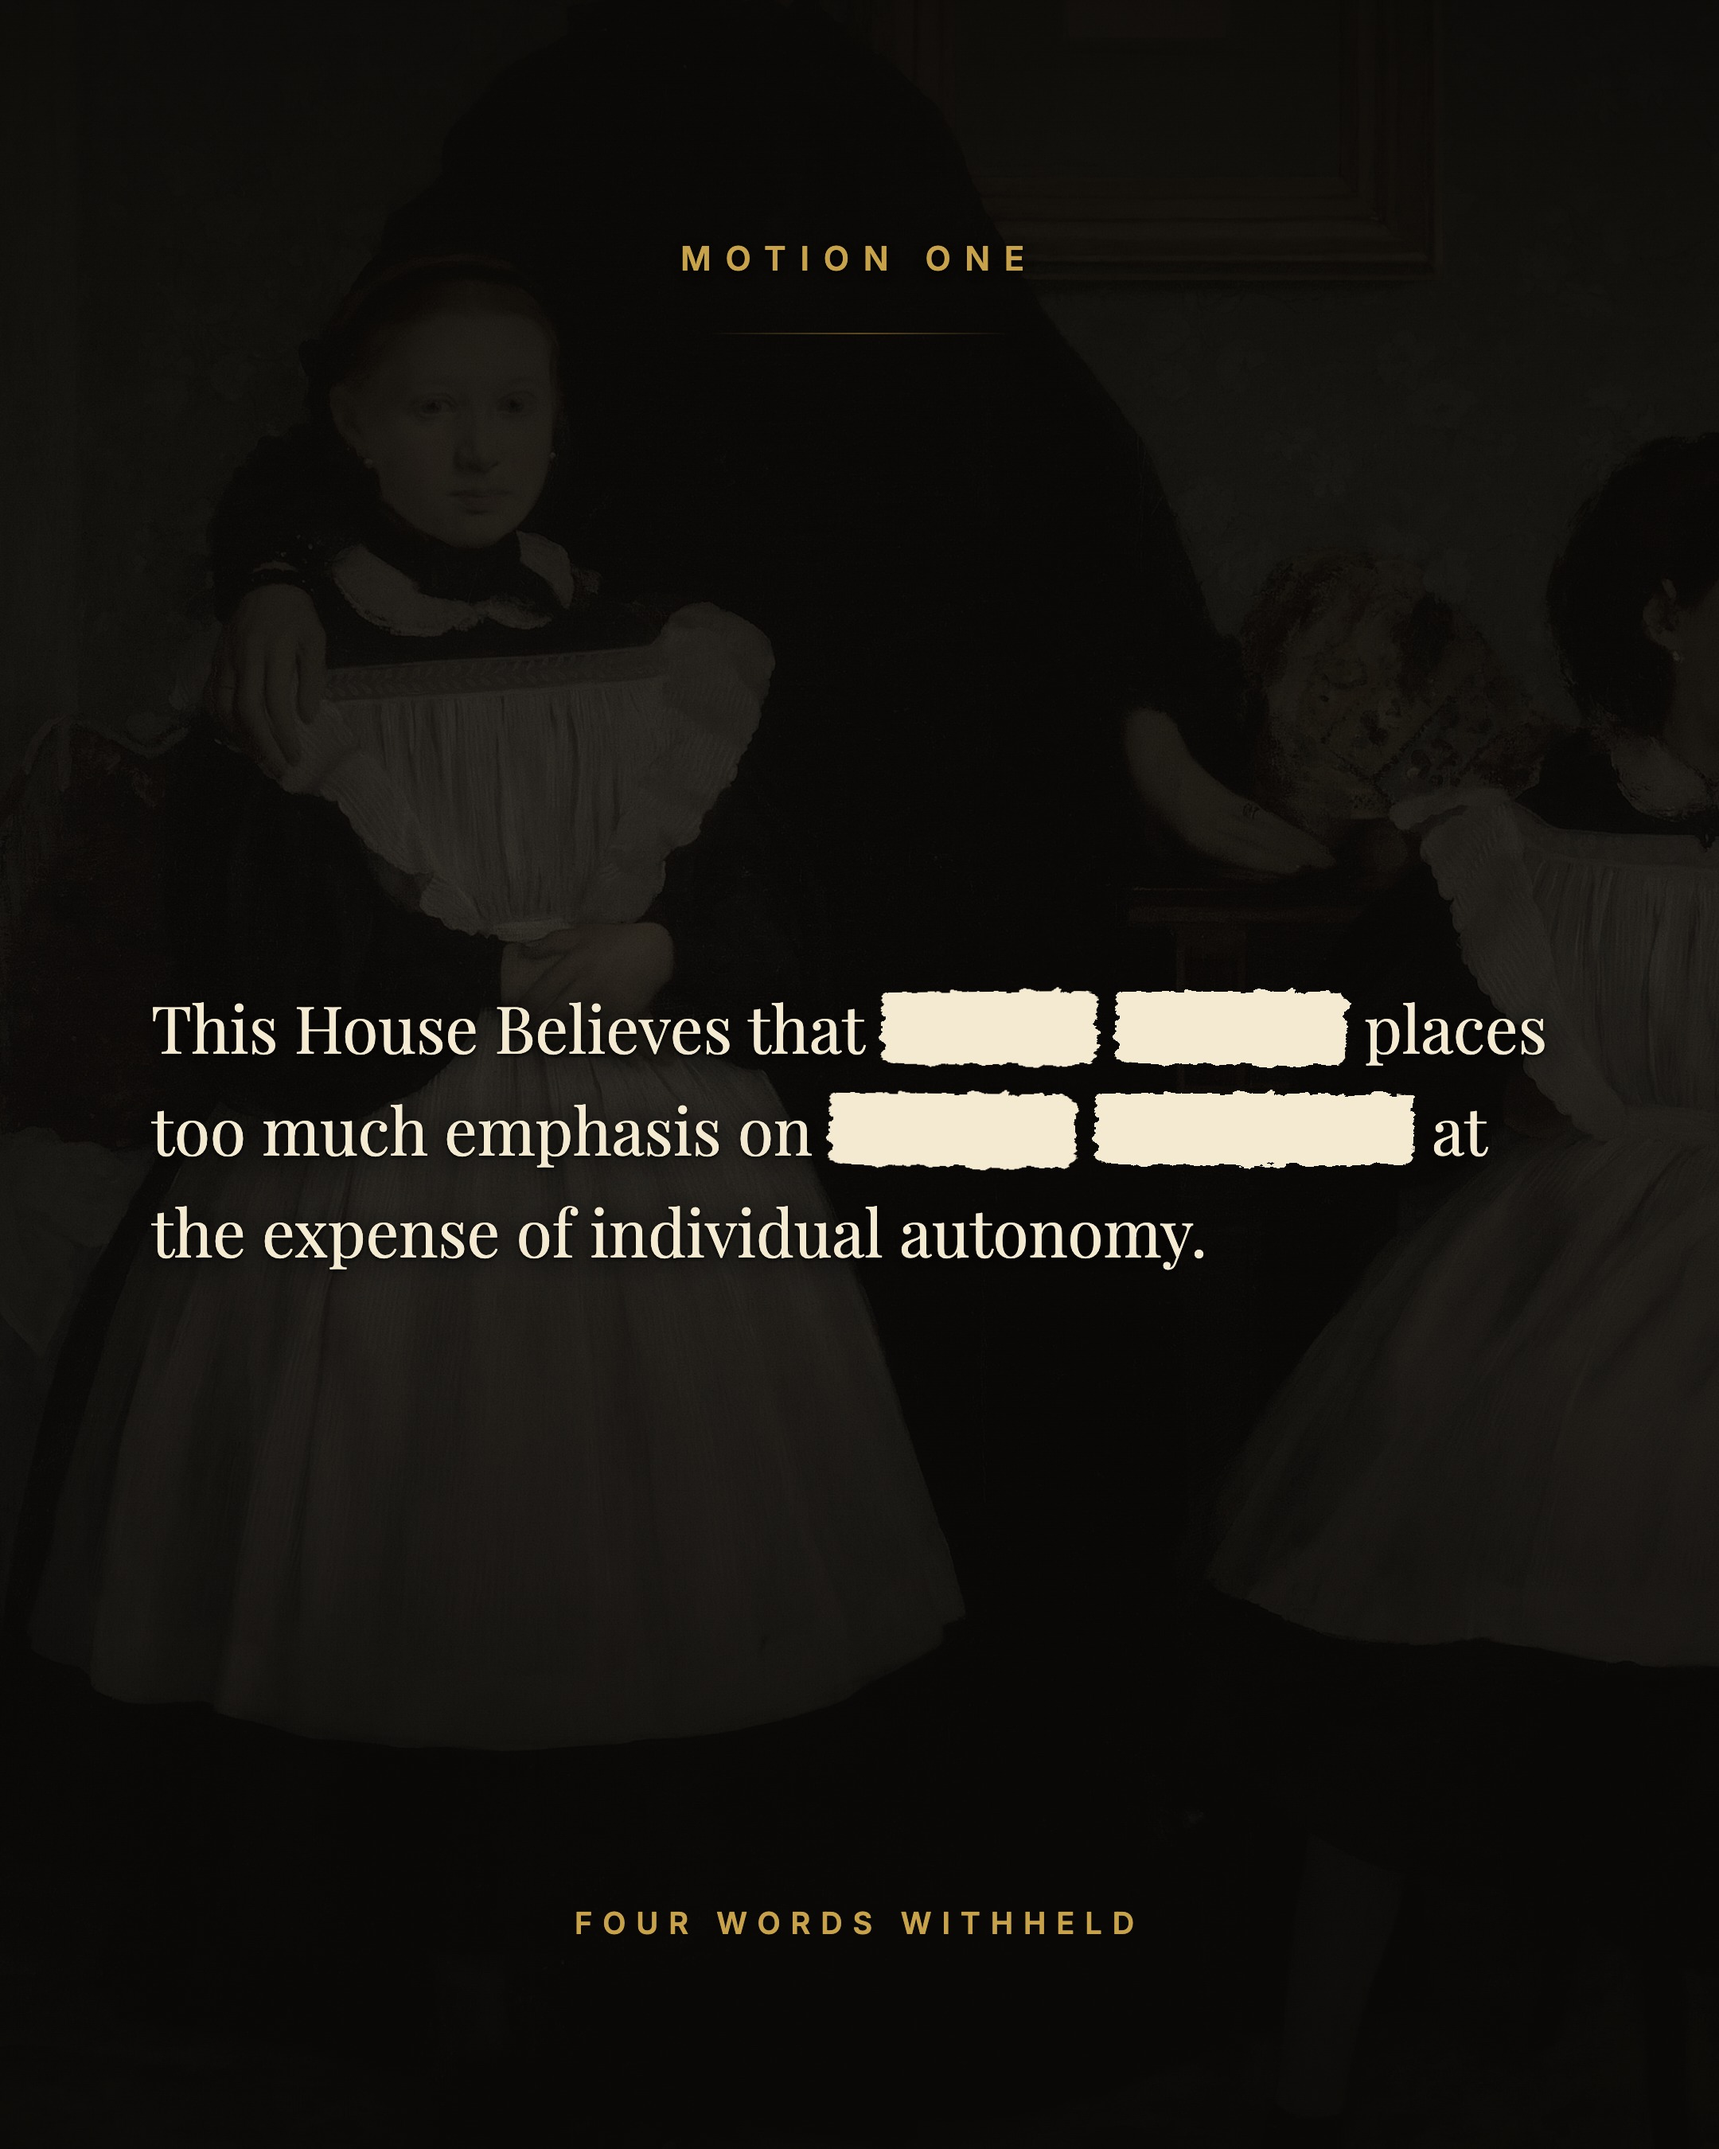
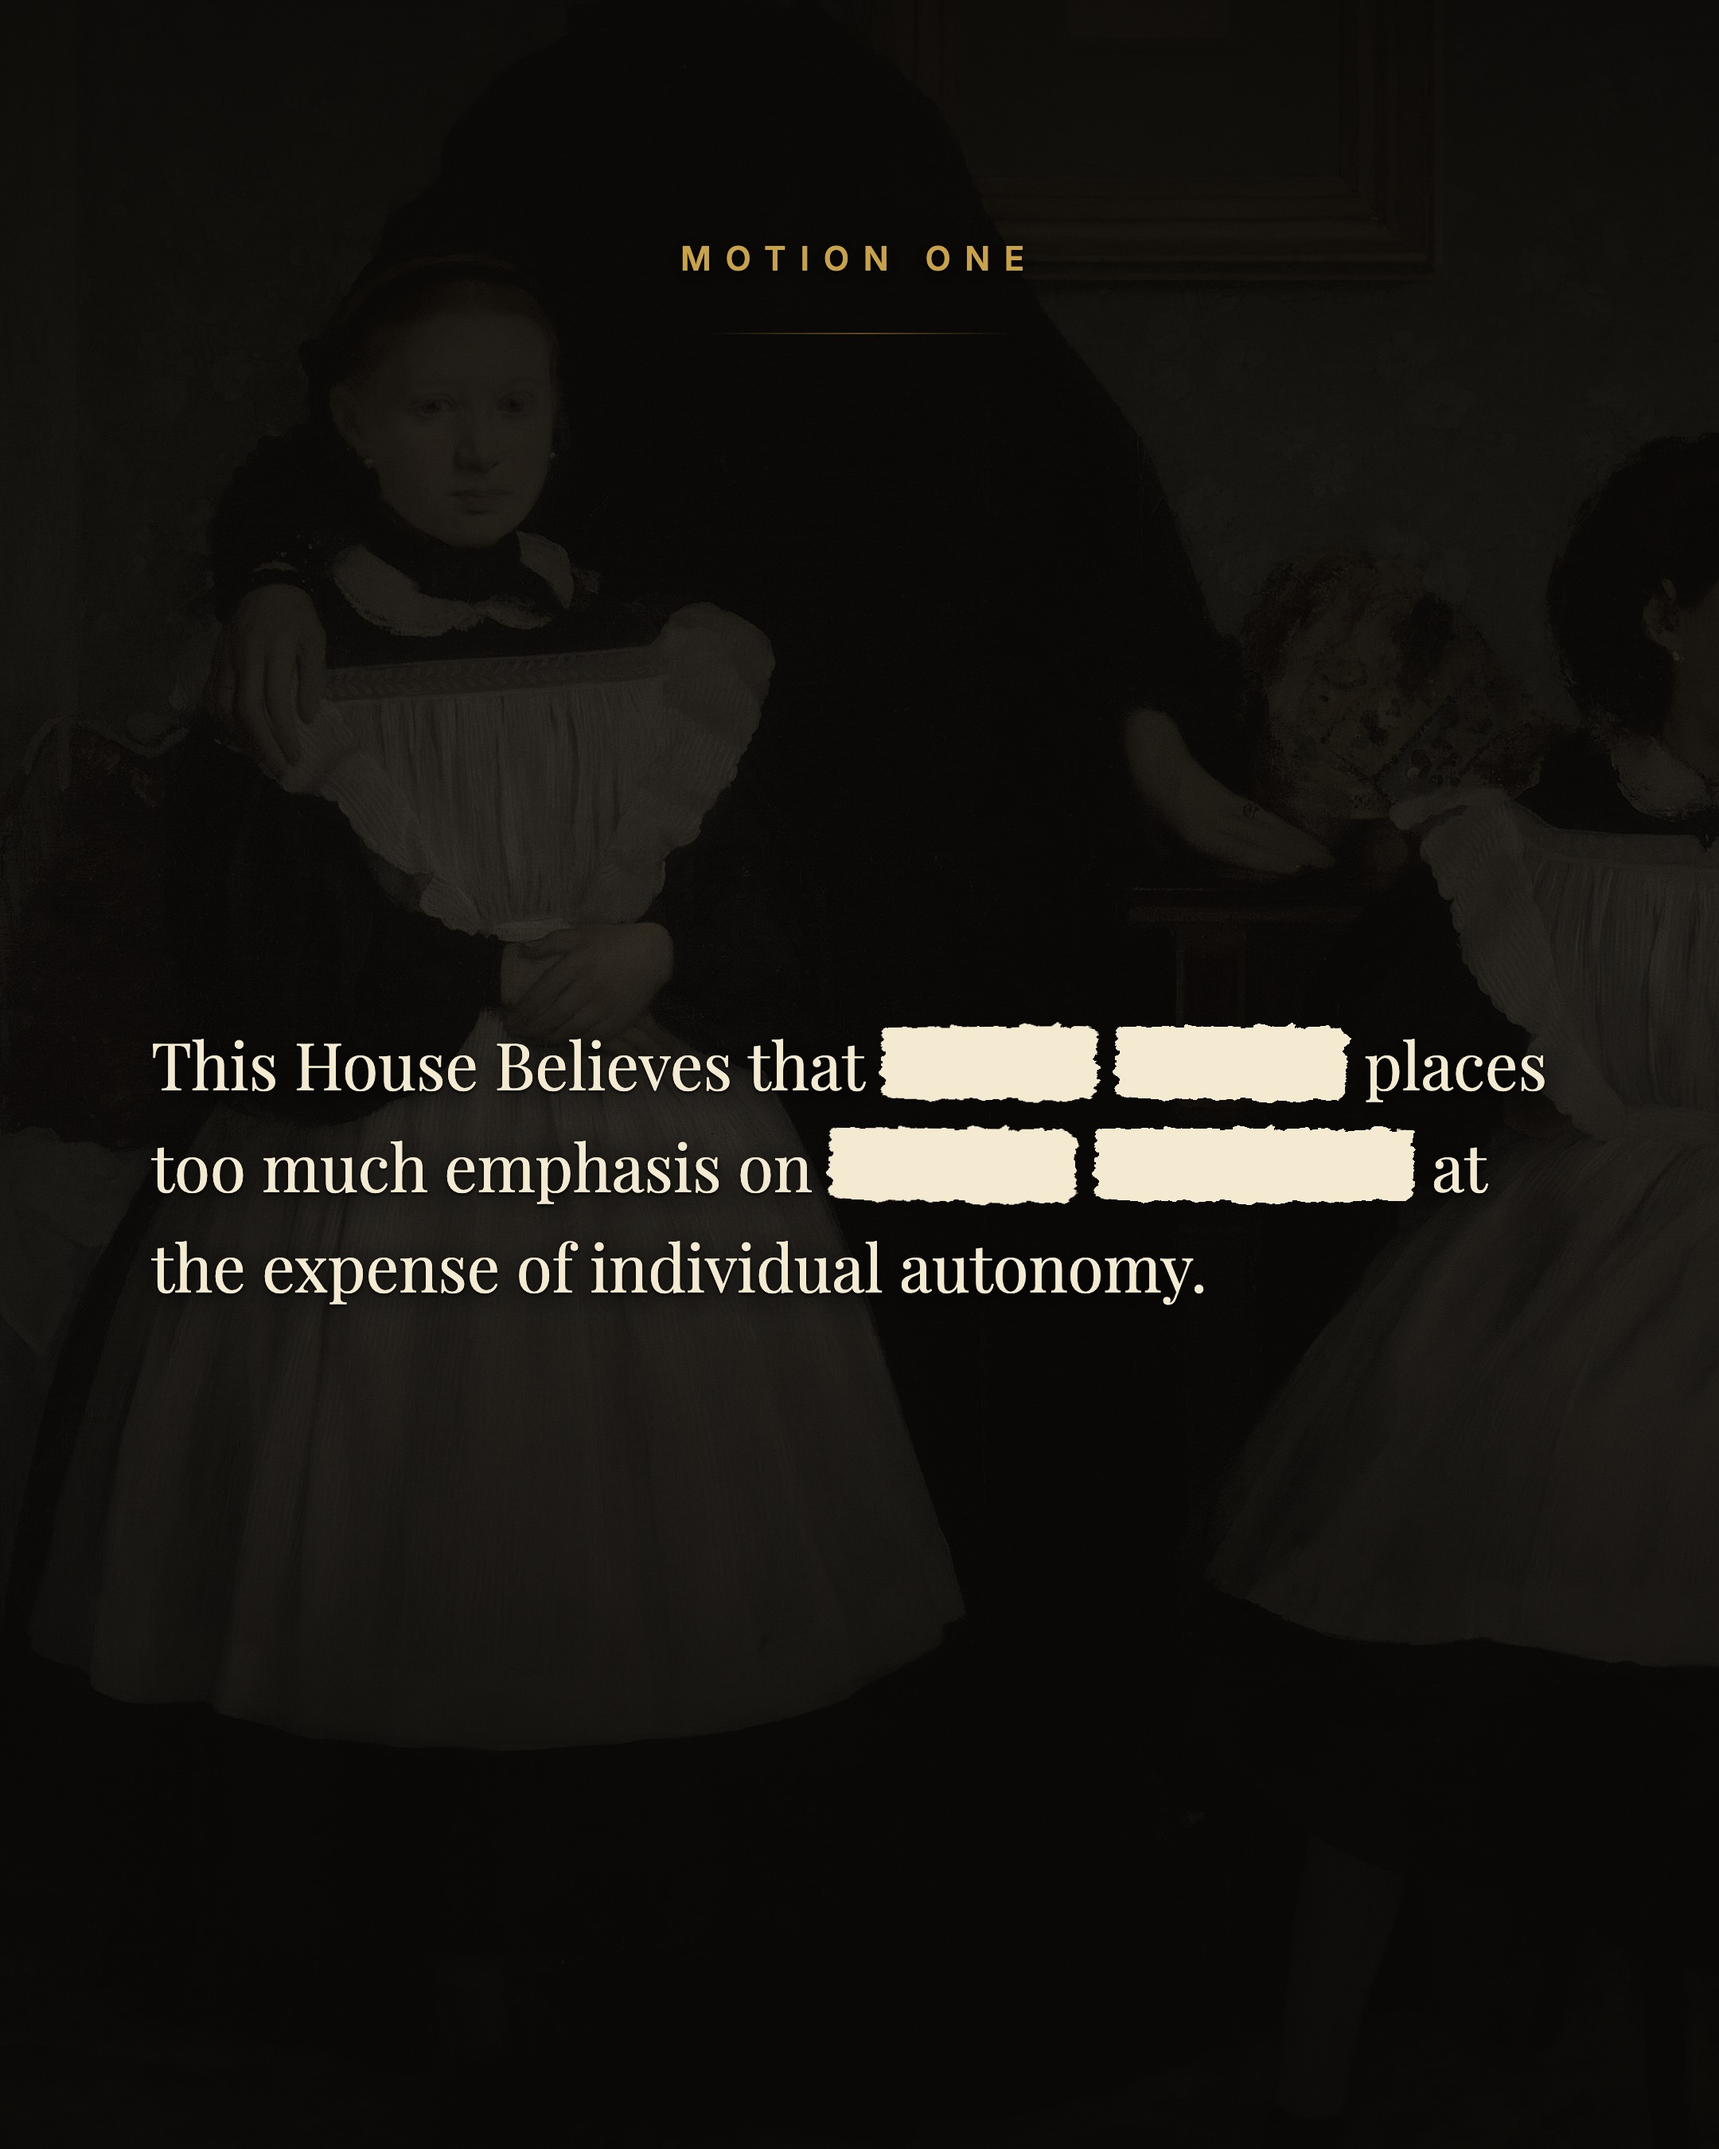
style: drop the word count from the motion slides
The bars are exactly as wide as the words they cover, so counting them for
the reader adds nothing and reads as a caption explaining the joke.

Changed region(s): [[0.0931, 0.4356, 0.8995, 0.6222], [0.5273, 0.8711, 0.6514, 0.9022], [0.3722, 0.8711, 0.4963, 0.9022]]

diff --git a/posters/works/2026-08-16-debate-9-autonomy/spec.tsx b/posters/works/2026-08-16-debate-9-autonomy/spec.tsx
@@ -53,7 +53,7 @@ const work: WorkSpec = {
       ),
     },
 
-    // 2. The first motion, four words short. What survives the bars still says
+    // 2. The first motion, struck through. What survives the bars still says
     //    something at the expense of individual autonomy, so the reader knows
     //    the shape of the argument and not the target.
     {
@@ -71,7 +71,6 @@ const work: WorkSpec = {
               autonomy.
             </>
           }
-          withheld="Four words withheld"
         />
       ),
     },
@@ -91,8 +90,8 @@ const work: WorkSpec = {
       ),
     },
 
-    // 4. The second motion, also four words short, on the father who has
-    //    turned away from the room.
+    // 4. The second motion, struck the same way, on the father who has turned
+    //    away from the room.
     {
       label: "Motion two",
       hasImage: true,
@@ -108,7 +107,6 @@ const work: WorkSpec = {
               <R>destructive</R> <R>choices</R>.
             </>
           }
-          withheld="Four words withheld"
         />
       ),
     },

diff --git a/posters/works/2026-08-16-debate-9-autonomy/slides.tsx b/posters/works/2026-08-16-debate-9-autonomy/slides.tsx
@@ -350,15 +350,12 @@ export function Motion({
   focus,
   kicker,
   text,
-  withheld,
   lift = false,
 }: {
   src: string;
   focus: Focus;
   kicker: string;
   text: ReactNode;
-  /** how many words are behind the bars, spelled out */
-  withheld: string;
   /** ease the scrim where the painting is already dark */
   lift?: boolean;
 }) {
@@ -394,7 +391,7 @@ export function Motion({
         style={{
           position: "absolute",
           top: 330,
-          bottom: 260,
+          bottom: 215,
           left: 95,
           right: 95,
           zIndex: 5,
@@ -419,23 +416,6 @@ export function Motion({
         </div>
       </div>
 
-      <div
-        style={{
-          position: "absolute",
-          bottom: 130,
-          left: 0,
-          right: 0,
-          zIndex: 5,
-          textAlign: "center",
-        }}
-      >
-        <div
-          className="kicker"
-          style={{ fontSize: 19, letterSpacing: "0.34em" }}
-        >
-          {withheld}
-        </div>
-      </div>
     </div>
   );
 }
